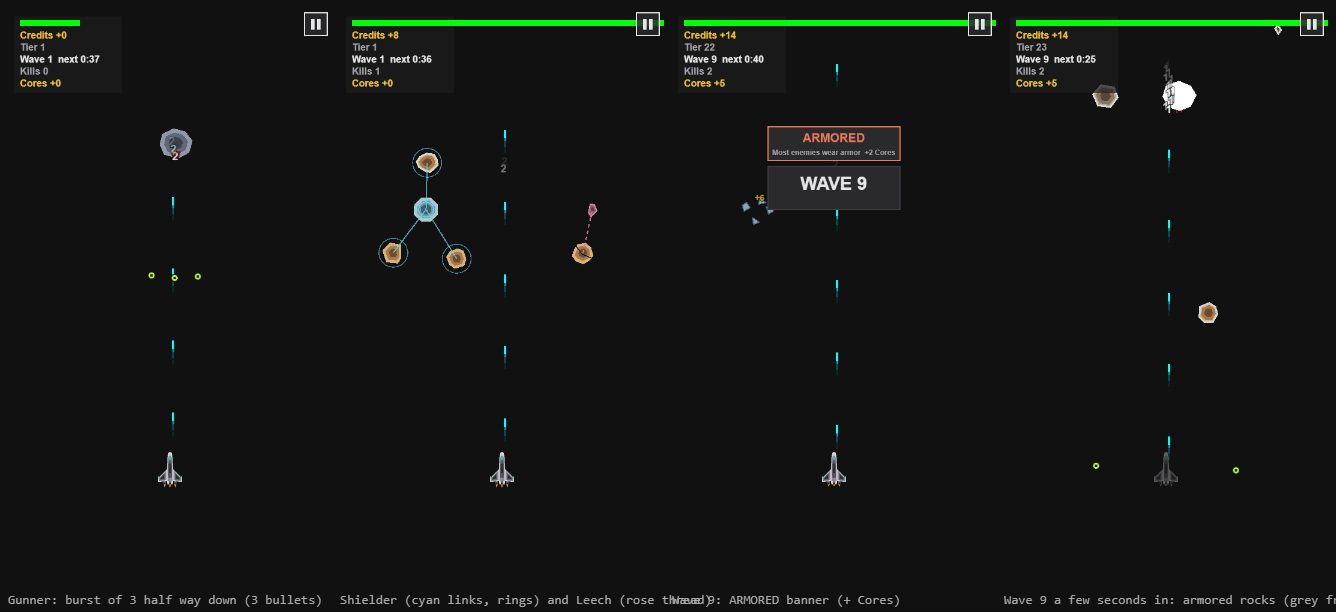
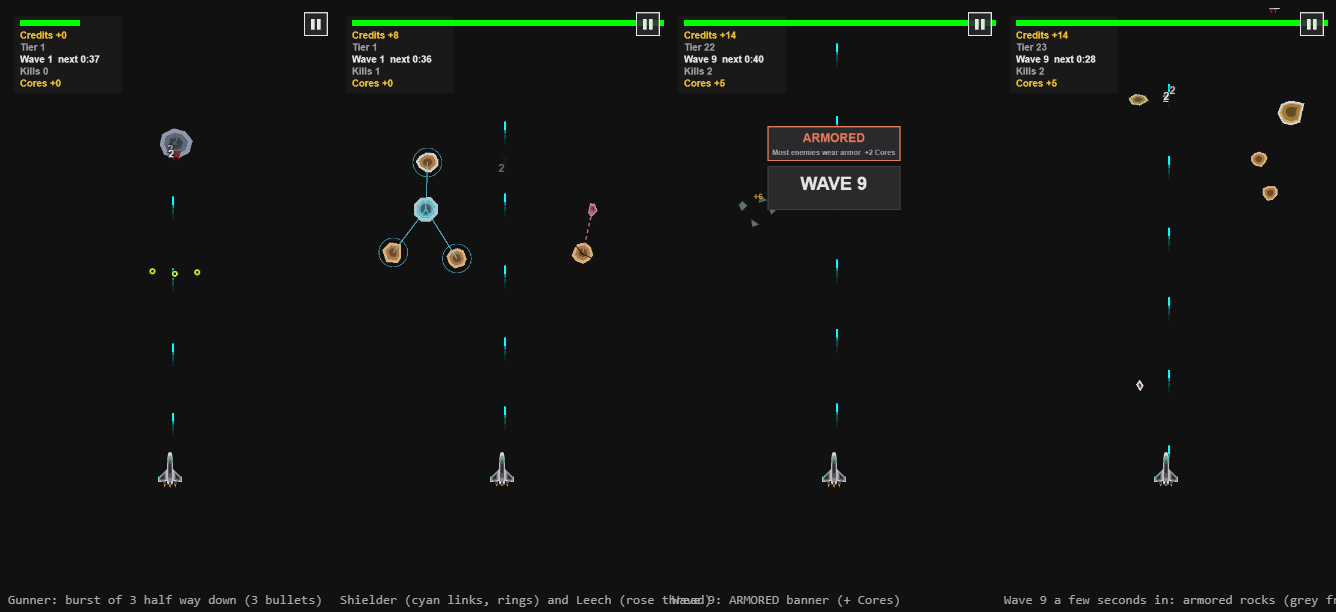
Chunk 32a: DECISIONS 547-561, CLAUDE.md, PLAN, report

diff --git a/docs/PLAN.md b/docs/PLAN.md
@@ -2,7 +2,7 @@
 
 The living plan for Mitosis Gun Builder: how we work, what the design is trying to be, what was decided and why, and what comes next. Any new planning chat or agent should read this first, then `CLAUDE.md` (current state of the code) and `DECISIONS.md` (numbered implementation decisions).
 
-Last updated: 2026-11-04, after chunk 31b (Shipyard part 2: the screen with the chunk palette, undo / redo, three designs, "Use this ship", the fixed custom ship art, the debug cell mode), before that chunk 31a (Shipyard part 1: Cores earned in Free Fly, ship chunks, custom hull rules and the hull picker rows, save v14; the Shipyard screen is part 2), before that chunk 29b (the Map tab is a mode carousel with a Free Fly screen, remembered mode screens, no FLY / CAMPAIGN in the builder, challenge bar at the bottom; hub tile outlines) and 29a (shared UI tokens), before that chunk 28a (achievements and challenges, save v13) and chunk 27b (the five effect types Strong Wind, Crosswind, Fog, Regrowth, Mitosis Wall on tiers 101-200) and chunk 27a (tiers 101-200: unlock by clearing every tier 1-100, the HP / reward curves, the schedule of 38 type tiers and the four layout types Monolith, Maze, Fortress, Drift; the five effect types are chunk 27b) and 26a (Percent x nerf, wall colours by HP), 25a / 25c (ejectors from any side, ship art), before that chunk 24a (phone fixes: capped ship speed with swept collision, relative touch drag, edge push follows the ship, pause from the start, frame-rate-independent steps, time played, unlock notices and NEW marks, captain tiers 2K / 10K / 40K, HUD badge; save v12) and 23a (production build) and chunk 22a (the Skill tree) and chunk 21b (performance: Homing keeps its target, allocation-free hit tests, overload rule, five distinct shot looks, run summary rows) and 21a (+1 Projectile, stacking curves, Upturn override, builder keys, run stats, shot looks, Reverse removed, 16 blocks repriced), 20b (thirteen motion blocks, campaign-tier locks, Frontier legendary-only) and 20a (twelve legendary blocks; 19a was best earnings, Homing nerf, Piercing by count, AoE shapes; 18b the difficulty curves). `docs/archive/SPEC.md` is the original master prompt and is out of date; this file and `CLAUDE.md` are the truth.
+Last updated: 2026-11-05, after chunk 32a (Free Fly v2: enemy bullets, Gunner / Shielder / Leech, wave themes), before that chunks 31c / 31d (Shipyard fixes, chunk set cleanup, save v16) and chunk 31b (Shipyard part 2: the screen with the chunk palette, undo / redo, three designs, "Use this ship", the fixed custom ship art, the debug cell mode), before that chunk 31a (Shipyard part 1: Cores earned in Free Fly, ship chunks, custom hull rules and the hull picker rows, save v14; the Shipyard screen is part 2), before that chunk 29b (the Map tab is a mode carousel with a Free Fly screen, remembered mode screens, no FLY / CAMPAIGN in the builder, challenge bar at the bottom; hub tile outlines) and 29a (shared UI tokens), before that chunk 28a (achievements and challenges, save v13) and chunk 27b (the five effect types Strong Wind, Crosswind, Fog, Regrowth, Mitosis Wall on tiers 101-200) and chunk 27a (tiers 101-200: unlock by clearing every tier 1-100, the HP / reward curves, the schedule of 38 type tiers and the four layout types Monolith, Maze, Fortress, Drift; the five effect types are chunk 27b) and 26a (Percent x nerf, wall colours by HP), 25a / 25c (ejectors from any side, ship art), before that chunk 24a (phone fixes: capped ship speed with swept collision, relative touch drag, edge push follows the ship, pause from the start, frame-rate-independent steps, time played, unlock notices and NEW marks, captain tiers 2K / 10K / 40K, HUD badge; save v12) and 23a (production build) and chunk 22a (the Skill tree) and chunk 21b (performance: Homing keeps its target, allocation-free hit tests, overload rule, five distinct shot looks, run summary rows) and 21a (+1 Projectile, stacking curves, Upturn override, builder keys, run stats, shot looks, Reverse removed, 16 blocks repriced), 20b (thirteen motion blocks, campaign-tier locks, Frontier legendary-only) and 20a (twelve legendary blocks; 19a was best earnings, Homing nerf, Piercing by count, AoE shapes; 18b the difficulty curves). `docs/archive/SPEC.md` is the original master prompt and is out of date; this file and `CLAUDE.md` are the truth.
 
 ---
 
@@ -40,6 +40,7 @@ Last updated: 2026-11-04, after chunk 31b (Shipyard part 2: the screen with the 
 - **Navigation (29b):** Map tab = mode carousel -> Campaign tier list / Frontier map / Free Fly screen, each with "<".
 - **Modes:** campaign walls tiers 1-100 (one-hit ship, pass or clear) and, once every one of them is cleared, tiers 101-200 (27a: harder walls, a type tier every 2-3 tiers), Free Fly (endless waves of splitting rocks), Frontier (infinite grid map unlocked after tier 25, holes, medal squares, Free Fly squares, directional unlocks at rings 100/200/300 with the twelve legendary blocks; ordinary blocks unlock by campaign tier since 20b).
 - **Blocks:** 66 visible (54 ordinary incl. 12 motion blocks and +1 Projectile + 12 legendary, one copy each, bought with Medals and credits; `docs/legendaries.md`). Only 8 ordinary blocks have upgrades (Flat+, Percent x, Lucky Strike, Jackpot, Gambler's Gate, Shield-Breaker, Armor-Piercer, Pure Converter). Shape blocks (Piercing, Bouncing, AoE, Chain, Homing, Fork, Boomerang, Orbit, Mine) stack per copy. Status/Mitosis effects are one copy.
+- **Free Fly v2 (32a):** enemy bullets (own pool, cap 240, slow lime rings, 8 hull damage, they outlive the shooter and cannot be shot); Gunner (wave 8), Shielder (12), Leech (15) in normal Free Fly only; wave themes ARMORED / SWARM / GUNNERS / SHIELD WALL / LEECHES on waves >= 9 that are multiples of 3 and not of 5 (a Cores bonus and a banner). Bosses at waves 10, 20 ... are 32b. `docs/freefly-v2.md`.
 - **Shipyard (31a, part 1):** Cores (Free Fly only) buy 3x3 ship chunks; a design of up to 4x4 chunks is a custom hull ("Custom 1-3" in the hull picker) once the Shipyard opens at Frontier ring 150. The Shipyard screen (31b) is built: chunk palette, undo / redo, three named designs, "Use this ship", one fixed custom ship drawing, and a debug cell mode that exports hull layouts (`docs/shipyard.md`). Open: balance of a maxed custom ship against the Zenith, chunk rotation, selling chunks.
 - **Hulls:** 19 (Dart free ... Zenith 1.3M), bought in the builder's hull picker. Size classes change the hit radius (8/9/10/11).
 - **Captains:** 4 captains, hero level uncapped (+0.5 base damage per level, Medal cost 1.2^(n-1)), option tiers unlocked by kills.
@@ -97,7 +98,7 @@ Next, in order:
 ### Backlog (parked)
 - Frontier: special squares, named combos for the directional unlocks, per-direction themes. (Legendary blocks: done in 20a; the Skills tree upgrades them, done in 22a.)
 - Captains: replace the spawn-invulnerability perks (owner called them pointless), hero unlock balance, character art.
-- Bosses (a wall boss spanning the width), bigger enemies and more enemy types.
+- Bosses (a wall boss spanning the width; Free Fly bosses at waves 10, 20 ... are chunk 32b and reuse the 32a bullets), bigger enemies and more enemy types.
 - Quests, new-player tutorial. (The Skills tab was built in 22a; open: playtest the tree numbers, a debug cheat for skill points, Heavy Round following the Brake floor.)
 - Sound quality (owner does not care for now), music.
 - Real phone testing of touch and looks (24a made the controls phone-first; the owner's verdict on speed cap / drag gain is pending).
@@ -108,6 +109,7 @@ Next, in order:
 
 The numbered implementation log is `DECISIONS.md`. The big design turns, newest first:
 
+- **32a** Free Fly v2. Free Fly gets its first enemies that shoot (the Gunner's aimed burst of 3) and two support enemies (Shielder: 25 % damage for the nearest five bodies; Leech: heals the nearest four), plus wave themes about every third wave from wave 9. Enemy bullets are a separate system the bosses of 32b will reuse: they stay until they leave the screen, cannot be shot, and hurt the hull (8 of 100) with the usual invulnerability. The three enemies and the themes are Free Fly only (Frontier squares unchanged); waves 1-7 are identical to before. The bot moves by about one wave either way. Open: how the dodging feels on a phone, the rewards and weights of the new enemies, sounds, a Gunner in the Frontier. Details: `docs/freefly-v2.md`, `DECISIONS.md` 547-561.
 - **29b** Navigation: the Map tab opens a carousel of three mode cards (Campaign, Frontier, Free Fly); each mode has its own screen with "<" back to the carousel, and the opened screen is remembered (also after a restart, kept outside the save). Free Fly gets a screen (records, Medal waves, START) instead of the builder's FLY button; the builder lost FLY and CAMPAIGN, and a started challenge shows a bar at the bottom with its own START. The hub's tiles got a lighter outline and a gap under the tabs; the darker modal colour of 29a was undone. Details: `docs/chunk29b.md`, `DECISIONS.md` 502-511. Open: swipe feel on a real phone.
 - **28b** Settings in five sections (frame rate limit, trails, backgrounds, damage numbers, touch sensitivity, key list, double-confirm reset; shape version 2 with a migration), a three-tab hub behind the ship button (Ships / Customization / Achievements, "Show completed"), cosmetics (projectile skin Auto or locked look, three reward skins, trail styles and Off / Short / Long trails with a capped segment pool and an automatic fallback), the Mitosis Wall splits in its own cell (halves, then squares), Crosswind 3x. Details: `DECISIONS.md` 479-493, `reports/chunk28b/REPORT.md`. Open: trail cost on a real phone, Crosswind at 400 px range.
 - **24a** Phone fixes after the first real-phone tests. The ship flies toward the pointer at a capped speed (the screen width in 0.2 s) and its hit test is swept, so it can no longer teleport through blocks; touch steers by the finger's movement (a setting brings the old "direct" mode back); the camera's edge push follows the ship, which fixes the bounce-back from the sides; the pause button shows from the start and a press on a control never steers; the loop is no longer a fixed 60 Hz step (a 120 Hz screen gets a new picture every frame at the same speed; iPhone Safari's own 60 fps cap is a browser flag, `docs/DEPLOY.md`); time played in Settings; the run summary lists what a run unlocked, NEW marks and tab dots replace the toast burst; captain option tiers need 2K / 10K / 40K kills (older saves keep what they opened); the HUD box holds the SPIKE badge and "Wall: <name>". Save v12. Details: DECISIONS 403-415. Still open: the feel of the speed cap, the drag gain and 120 Hz need the owner's phone.

diff --git a/DECISIONS.md b/DECISIONS.md
@@ -653,3 +653,20 @@ These replace decisions 78-82 (cylinder, camera, backdrop, leash, spawn ring) an
 544. **Chunk 31c, small choices.** The Cell mode button moved from the toolbar to the bottom row beside Use (a debug panel in the page covers the top right of the canvas at desktop width). Cell mode has two button rows (W- W+ H- H+ Export / Fly test, Build & fly, Chunks). `CellEditor.set` was added for restoring a layout. The chunk count is now 15 (7 plain, 3 guns, 5 traits). Not changed: gameplay, Cores earning, chunk prices, hull stats formula (cells count excludes the generator as before).
 545. **Chunk 31c follow-up (after the owner's review).** (a) The Shipyard grid is drawn with `segments: []`, so no red path line (the ejector arrows and everything else of the builder drawing stay). (b) Selecting and opening the palette are separate: a first tap on a slot selects it (and closes a sheet that was open for another slot), a tap on the selected slot opens the sheet, another closes it. (c) The builder's five-tab bar is shown (Build active); a tab goes through `goToTab` after `syncBuilder`, so a changed custom layout is not lost. The error line moved above the stats strip at the builder's own y (stats 820, toolbar 854, tabs 904); the debug Cell mode button and the second cell-mode row sit in a row at y 724. (d) "Use this ship" is a 96 px "Select" button in the design row, the name box is shorter. (e) `GENERATOR_COLUMN` 6 -> 1 (column 2 of 12, middle of the first bottom chunk). This supersedes the column in 538 and the "Front Gun needs a turn block" note: a Front Gun, Corridor or Cross straight over the generator is now fed with no block. The debug sample design is a Front Gun over a Full chunk. No save change (designs keep their slots; one built for the old position may now show an error).
 546. **Chunk 31d, chunk set cleanup.** `src/data/shipChunks.ts` replaced by the owner's file (13 chunks: 5 plain, 3 guns, 5 traits; growth per kind `GROWTH_PLAIN` 1.35, `GROWTH_GUN` 1.6, `GROWTH_TRAIT` 2.0; `duplicateShapes`, `REMOVED_CHUNKS`, an edge check in `validateChunk`). Full and Bar removed. Save version 16: copies are refunded at base x 1.5^k per copy, rounded like `chunkPrice` (Full 25, Bar 15; frozen in `LEGACY_REMOVED_CHUNK_PRICES`), the ids drop out of the inventory and designs (an unknown id was already an empty slot), and a one-time notice names the chunks and the Cores. The refund and notice only fire for saves of version 14 and up (older saves carry no Shipyard data) and are idempotent (the ids are gone after loading). Tests that used the solid Full block as a plain 3 x 3 now use Wide Open, whose -0.2 pulses/s and x0.7 damage are part of their numbers (Ring has a hole in the middle, so the signal cannot pass through it; Cross is 5 cells); tests that used Bar as 'no cell above the generator' use Long Barrel. The cheat sample design is a Front Gun over a Wide Open. The e2e sheet scripts of 31b and 31c were edited the same way.
+
+## Chunk 32a: Free Fly v2 (enemy bullets, Gunner / Shielder / Leech, wave themes)
+547. **Enemy bullets are their own pool** (`src/engine/enemyBullets.ts`, typed arrays; constants in `src/data/enemyBullets.ts`): cap 240, speed 230 px/s (player shots 600), radius 5, 14 px sprite, 8 hull damage (hull 100, contact 10), 0.5 s invulnerability after a hit. A bullet knows nothing about its shooter and only the world moves, removes and tests it, so it outlives the shooter, and player shots, Chain Lightning, AoE, Orbit and Mines (which only ever read `mitosis.enemies`) cannot touch it. A shot into a full pool is refused and counted (`refused`). The pool is not part of the player's overload rules. The 32b bosses will use the same pool.
+548. **A bullet touching the ship while it is invulnerable flies on through** (it is not used up): spawn safety (1.5 s from the first frame, 24d), the 0.5 s after a hit, a Second Chance's window and the god cheat all behave like the rock contact. A Second Chance charge absorbs a bullet the way it absorbs a contact. The test is swept along the ship's path (`firstHit`, `segDistSq`) like the rocks'. I added a small `World.hurtShip` for bullets and left the rock-contact code as it was (it also knocks the ship back; a bullet does not).
+549. **Look:** a round lime (#c8f542) ring in a near-black outline with a dark core. No player shot is round or lime (dash, bar, diamond, bolt, star, hex, cross, chevron; cyan to magenta) and every background is dark with sparse light stars, so the lime reads on all eight (sheet `reports/chunk32a/sheet_enemies.png`). Own sprite pool (`src/ui/enemyBulletSprites.ts`), drawn above the rocks and the player's shots.
+550. **Gunner** (`species.gunner`, `gun`): radius 30, 2.2 u HP, falls 22 px/s, reward x2.8, 7 points, weight 3, from wave 8, leak x1.2. It walks 2.6 s, stops 1.0 s, and 0.6 s into the stop fires 3 bullets in a fan of -10 / 0 / +10 degrees around the line to the ship's position AT THAT MOMENT (no lead: a moving ship dodges by moving). The walk clock only runs while it is on screen and above the ship (so the first stop is 1.5 s after it appears, and a Gunner that has passed the ship never fires upward). It splits into 2 plain rocks (0.3 HP, radius 15) on death. The pure rules are in `src/game/support.ts` (`gunStep`, `burstVelocities`). Frostbite slows its clock like its movement.
+551. **Shielder** (`shield`): radius 22, 1.3 u, falls 30 px/s, reward x1.8, 5 points, from wave 12. Each frame the nearest 5 bodies within 150 px (not Shielders, not itself) get `dmgTakenMul` = 0.25 (cleared first every frame, so killing the Shielder lifts it at once). The multiplier is read in `applyDamage` (direct hits, Static pulses, Residue clouds), in `burn()` and in `damageToKill` (Persist spends the bigger kill hit), so no damage source skips it. Two Shielders on one body do not stack (the lower multiplier wins). A Shielder that is dying this very step (hp <= 0) no longer links. The link is listed in `World.links` and drawn every frame (cyan line, ring round the body; `src/ui/supportLinks.ts`).
+552. **Leech** (`heal`): radius 14, 0.45 u (fragile), falls 34 px/s with a 40 px/s sway, reward x0.8, 3 points, from wave 15. Heals the nearest 4 bodies within 130 px (not Leeches, not itself) by 5 % of THEIR max HP a second, never above max. A body is healed by one Leech at a time (a crowd of Leeches does not stack; found by a test that expected 50 a second and got 100). Rose dashed thread.
+553. **Frontier Free Fly squares are unchanged:** the three are `freeFlyOnly` and `planEncounter` skips them (the squares' balance was never measured with shooters). Their `weight` > 0 puts them in the normal director's draw from their first wave; each is a newcomer that comes first in its first wave (Gunner wave 8, Shielder 12; wave 15 is a Swarm wave, which has no newcomer rule, so the Leech first shows up by weight from wave 16).
+554. **Waves 1-7 are bit-for-bit unchanged** (the new species cost points and weights only from wave 8). I hashed `planWave` for waves 1-7 and a real World 10 s into each of them on `origin/main` and on this branch with the same hash function: equal. The old test hashes in `tests/frontierSquaresAndUnlocks.test.ts` covered waves 1-30; they now cover waves 1-7 (new hashes taken from this code after that check) and the species / enemy data hash covers every older entry (still the old value), because the draws from wave 8 legitimately changed. `tests/freefly.test.ts` budget check multiplies by the theme's budget factor.
+555. **Themes** (`src/data/waveThemes.ts`, a table `THEMES` and constants): eligible waves are >= 9, multiples of 3, and not multiples of 5 (so never a Swarm / Mother wave and never a boss wave 10, 20 ...): 9, 12, 18, 21, 24, 27, 33 ... The n-th eligible wave takes the n-th table entry and the table repeats: ARMORED, SWARM, GUNNERS, SHIELD WALL, LEECHES. So they start one by one (the prompt's "Themes start one by one and repeat") and waves 3 and 6 stay plain. `themeAt(wave)` is a pure function of the wave number.
+556. **Theme plans** (`planWave`): ARMORED draws the normal wave and then each body is armored (armor 10, the Ironclad's) with chance 0.7 (`PlannedSpawn.armor`, set in `World.spawnSpecies`; the frame and its Corrosion thinning already existed; children of a split are born from their species' data, so unarmored, like an Ironclad's). SWARM: budget x1.1, Darters (about 40 % of the bodies) and pebbles, 20 s window. GUNNERS: 60 % of the budget on Gunners, then the normal draw. SHIELD WALL: groups of a Shielder with 3 cheap escorts (Rock, Drifter, Warden or Darter) born 0.15 s after it within 60 px of it. LEECHES: 40 % of the budget on Leeches, then the normal draw. A species' newcomer still comes first in a themed wave.
+557. **Theme banner and Cores:** the Fly screen shows a second banner above "WAVE N" (name in a salmon frame, the one line, "+N Cores"); `World.waveEvents` entries gained `theme` and `cores` (the e2e and the unit tests read them). A theme wave pays half of what its start already pays in Cores (`THEME_CORES_SHARE` 0.5 of `coresForWave`, at least 1) times the Core Magnet, added at the wave start. Credits bonuses stay on multiples of 5. Nothing is saved: still version 16.
+558. **The balance bot** steps around enemy bullets (`BOT_OPTS.dodgeBullets`, the same 0.7 s look-ahead as for bodies). Result in `docs/freefly-v2.md` section 6: eight builds move by about one wave either way, the bullets rarely hit the bot. No tuning, by instruction. How it feels to a person is NOT measured.
+559. **Cost at the bullet cap:** 0.0054 ms a frame for the pool plus the hit test in Node; the world frame and the Fly screen update differ by less than the noise (about 0.01 ms) with 240 bullets; in headless Chromium the frame rate stays at its 60 fps cap. See `docs/freefly-v2.md` section 6. A phone was not measured.
+560. **Stale e2e scripts fixed** (they failed on main too): `freefly-waves`, `block-economy`, `production-build` and `save-transfer` still expected save version 15 (31d made it 16).
+561. **Not changed:** the Frontier squares, the campaign, player shots and blocks, the old species and their numbers, the save (still 16), the pool cap of the player's shots, the Free Fly rewards of old species. Not built: bosses (32b), a Gunner in the Frontier, sounds for the new enemies (no sound was added for a bullet shot or a bullet hit; a hit shows the ship's invulnerability blink, which I did not check against a rock contact's feedback).

diff --git a/reports/chunk32a/REPORT.md b/reports/chunk32a/REPORT.md
@@ -1,0 +1,52 @@
+# Chunk 32a report: Free Fly v2 (enemy bullets, Gunner / Shielder / Leech, wave themes)
+
+Design: `docs/freefly-v2.md`. Decisions: `DECISIONS.md` 547-561.
+
+## What was built
+1. **Design note** (committed first).
+2. **Enemy bullets:** their own pool (cap 240), slow (230 px/s) lime rings in a dark outline, 8 hull damage + 0.5 s invulnerability, they outlive the shooter and cannot be shot, the spawn invulnerability and a Second Chance / the god cheat let them through, pause freezes them.
+3. **Gunner** (wave 8), **Shielder** (wave 12), **Leech** (wave 15): species data in `src/data/species.ts`, split rules in `src/data/enemies.ts`, art in `src/ui/rockArt.ts`, pure rules in `src/game/support.ts`, links listed in `World.links` and drawn by `src/ui/supportLinks.ts`. Normal Free Fly only.
+4. **Wave themes** (`src/data/waveThemes.ts`): ARMORED, SWARM, GUNNERS, SHIELD WALL, LEECHES on waves 9, 12, 18, 21, 24, 27 ... (>= 9, multiples of 3, not of 5), a banner above "WAVE N", a Cores bonus.
+5. **Tests, bot, cost:** see below.
+
+Commits: steps 2 and 3 were written together (the world code is shared) and committed as one ("steps 2-3"); everything else has its own commit.
+
+## Tests
+- `npx tsc --noEmit` clean. `npx vitest run`: 63 files, 1266 tests pass (33 new in `tests/freeflyV2.test.ts`).
+- **Mutation checks (12, all caught; every file restored with `git checkout`):** shield reduction removed (`damage.ts`); no invulnerability after a bullet hit; bullets hurt while invulnerable; bullets cleared when their shooter dies; burst not aimed at the ship; Leech heals above max HP; theme allowed on multiples of 5; Gunner clock runs while off screen; Shielder link ignores range (the last four and the first were run through a script, `git status` clean afterwards). Two further mutations (Leech healing stacking, a dying Shielder still linking) were found by the tests as real bugs while writing them and fixed.
+- Waves 1-7 unchanged: hashes of `planWave` and of a real world 10 s into each wave, on `origin/main` and on this branch (same hash function) are equal. The old hash tests in `tests/frontierSquaresAndUnlocks.test.ts` were narrowed to waves 1-7 (the draws from wave 8 legitimately changed); the species / enemy data hash of every older entry is the old value.
+- **E2e** (fresh dev server on port 5292): `freefly` 19, `freefly-waves` 10 (after fixing its stale "save version 15"), **`freefly-enemies` (new) 19**, `frontier-squares` 22, `pause` 21, `mitosis-blocks` 22, `captains` 30, `cheats` 16, `performance` 14, `polish` 23, `block-economy` 12, `save-transfer` 13, `production-build` 25: all pass. `economy` was started but the shell hit my 10-minute limit before it reported (not rerun); the full e2e suite was NOT run.
+- The new e2e checks, in the real game: a Gunner stops and fires 3 bullets, each bullet has a sprite, the bullets keep flying after the Gunner dies and one reaches the ship down the ship's own firing lane (so shots do not stop it): hull 100 -> 92 with the invulnerability running, pause freezes them (positions equal after 0.5 s) and resume moves them, a Shielder links 3 bodies at 25 %, a Leech heals its patient, killing the Shielder removes the link, wave 9 shows the ARMORED banner with "+2 Cores" and armored bodies, 240 bullets all drawn.
+
+## Contact sheets (I opened both)
+- `reports/chunk32a/sheet_enemies.png`: Rock, Warden, Ironclad, then the Gunner (a large blue-grey octagon with a dark-red wedge under it), the Shielder (a regular pale-cyan octagon with a cyan ring) and the Leech (a small narrow rose teardrop), whole and 60 % damaged with cracks; a Shielder with cyan lines and rings to two rocks, a Leech with a rose dashed thread to a rock; the bullet at real size and 4x beside the five player looks (the bullet is a lime ring, the player looks are cyan/pale cyan bars, a yellow diamond, an orange bolt, a magenta star); the bullet over all eight backgrounds (readable on each; the dark outline hardly shows on the dark backgrounds, the lime ring does the work). The 4x enlargement is blocky because the 14 px texture is scaled up; in the game it is shown at 1x.
+- `reports/chunk32a/sheet_ingame.png` (four frames from the real game): (1) a Gunner near the top with three small lime rings spread out half way down, the ship's cyan shots in its lane; (2) the Shielder with three linked rocks inside cyan rings, the Leech to the right with its thread; (3) the "ARMORED / Most enemies wear armor +2 Cores" banner above "WAVE 9", HUD "Cores +6"; (4) a few seconds into wave 9, a few rocks. **At this scale I could not see the armor frames in frame 4** (the e2e checks armor values, not the picture), and the bullets in frame 1 are small.
+
+## Bot (before = origin/main, after = this branch; 3 seeds; `scripts/freefly-v2-bot.ts`)
+| Build | Before (wave / s) | After |
+|---|---|---|
+| Twin | 5.7 / 208 | 5.7 / 208 |
+| Hornet | 9.0 / 355 | 9.7 / 374 |
+| Mantis | 12.7 / 480 | 12.0 / 464 |
+| Halberd | 14.7 / 567 | 15.0 / 574 |
+| Corvette | 13.0 / 493 | 12.0 / 468 |
+| Shuttle | 15.0 / 573 | 15.0 / 584 |
+| Fan | 17.0 / 666 | 17.0 / 664 |
+| Zenith | 18.0 / 694 | 17.7 / 687 |
+
+About one wave either way; the bullets rarely hit the bot (0-2 hits a run when it dodges, up to 5 when it ignores them). No tuning.
+
+## Cost at the bullet cap (240)
+Node: pool update 0.0012 ms + hit test 0.0042 ms a frame; a whole world frame differs by less than the noise (about 0.01 ms). Headless Chromium: a Fly-screen update 0.07 ms with no bullets, 0.06 ms with 240; 60 fps either way (the cap). The numbers are small because these frames had few other objects; a phone was not measured.
+
+## Housekeeping
+Dev server on port 5292 stopped at the end. No worktrees created. Fixed four e2e scripts that still expected save version 15.
+
+## Not verified
+- **How dodging feels on a phone** (bullet speed 230 px/s, 14 px size, 8 damage, burst spread of 10 degrees, the Gunner's 2.6 s / 1 s rhythm): only a bot and desktop headless runs were used.
+- Whether the new enemies' rewards (Gunner x2.8, Shielder x1.8, Leech x0.8), point costs and weights are balanced; the bot says nothing about a person.
+- Performance on a real phone and with a big player pool at the same time as 240 bullets.
+- That armored rocks read as armored in the theme wave (checked by values, not by eye), and the look of the Gunner's muzzle wedge in play.
+- The SWARM, GUNNERS, SHIELD WALL and LEECHES theme waves were checked only as plans (unit tests) and the ARMORED wave in the browser; I did not watch a full SHIELD WALL or LEECHES wave play out.
+- The whole e2e suite, the `economy` e2e (timed out in my loop, not rerun) and sound (no sound for bullets).
+- Wave 8-14 balance for players with mid builds beyond the bot's eight builds.

diff --git a/CLAUDE.md b/CLAUDE.md
@@ -89,5 +89,7 @@ The game is hosted on Cloudflare Pages (build `npm run build` = `tsc --noEmit -p
 
 **Chunk 31c: Shipyard fixes (`docs/shipyard.md` section 8, DECISIONS 538-544).** The Generator is a fixed cell under the 12 x 12 build area at `GENERATOR_COLUMN` 1 (column 2 of 12, middle of the first bottom chunk), drawn in the builder's art; a design is valid with a cell above it (`NO_CELL_ABOVE_GENERATOR`), one ejector at least, everything joined. `validateHullLayout` lost the "generator on the bottom row" and "nothing above an ejector" rules and gained "at least 1 ejector" (all 19 hulls pass). Every placed chunk has a rotation (`Design.rot`, `rotateRows`, `ShipyardEditor.rotate`). **Save version 15** (rotations; Generator chunks refunded at 60 x 1.5^i Cores in `sanitizeShipyard`, idempotent). **The Shipyard screen works like the builder:** the builder's `GridRenderer` draws the assembled ship with the generator row, a selected slot (yellow), the builder-style toolbar (Clear, Rotate left / right, Undo, Redo; keys R / Q / D / Ctrl+Z), the block palette sheet (a first tap on a slot only selects it, a second opens the sheet; tap a tile, tap again to place, Buy in the sheet), error line and stats strip below, the bottom tab bar, and a small "Select" (use this ship) button in the top design row; the grid draws no red path line. **Debug sandbox:** cell mode's "Build & fly" opens the layout in the real builder as hull `celltest` with every block free (`enterSandbox` / `leaveSandbox` in `builder/session.ts`, `src/shipyard/sandbox.ts`), SANDBOX banner and EXIT, nothing saved (runs flown there still pay the real progress). Tests: `tests/shipyard.test.ts`, `tests/shipyardScreen.test.ts`, `tests/sandbox.test.ts`, `tests/hulls.test.ts`, `e2e/shipyard.e2e.cjs`, sheet `e2e/sheet-chunk31c.cjs`.
 
+**Chunk 32a: Free Fly v2 (`docs/freefly-v2.md`, DECISIONS 547-561).** **Enemy bullets** (`src/engine/enemyBullets.ts`, constants `src/data/enemyBullets.ts`, sprites `src/ui/enemyBulletSprites.ts`): their own typed-array pool (cap 240), speed 230 px/s, a round lime ring in a dark outline, 8 hull damage and 0.5 s invulnerability per hit (never one-hit; spawn safety, a Second Chance, the god cheat and the post-hit window all let bullets fly through); a bullet does not know its shooter, so it outlives it, and nothing the player fires can touch it. Bosses (32b) will use the same pool. **Three Free Fly enemies** (`SPECIES`, `src/game/support.ts`, art in `rockArt.ts` with a `mark`): **Gunner** (from wave 8; walks 2.6 s, stops 1 s, fires a fan of 3 aimed at the ship), **Shielder** (wave 12; nearest 5 bodies within 150 px take 25 % damage from every source, `dmgTakenMul` in `applyDamage` / `burn` / `damageToKill`; cyan link lines), **Leech** (wave 15; heals the nearest 4 within 130 px 5 % of their max HP a second, one Leech per body; rose thread). `World.links` lists the links, `FlyScreen` draws them. They are `freeFlyOnly`: Frontier squares do not send them. **Wave themes** (`src/data/waveThemes.ts`, `themeAt`): waves >= 9 that are multiples of 3 and not of 5 (9, 12, 18, 21, 24 ...; never Swarm / Mother / boss waves) cycle ARMORED, SWARM, GUNNERS, SHIELD WALL, LEECHES (`planWave` builds each; `PlannedSpawn.armor`), announced by a banner above "WAVE N" and paying half the wave's Cores again. Waves 1-7 are unchanged (hash-checked). The balance bot steps around bullets (`BOT_OPTS`). Tests: `tests/freeflyV2.test.ts`, `e2e/freefly-enemies.e2e.cjs` (sheet `reports/chunk32a/`), `e2e/sheet-chunk32a.cjs`, `scripts/freefly-v2-bot.ts`, `scripts/perf-enemy-bullets.ts`.
+
 ## Backlog (not built yet, do not start unless a chunk says so)
 More blocks (more pathing like Merger/Portal/Reflector, passives), new enemy types and Free Fly waves, bosses, music, Captain active abilities, node map and infinite tiers (also unlocks blocks), quests, hull silhouette redesign.
